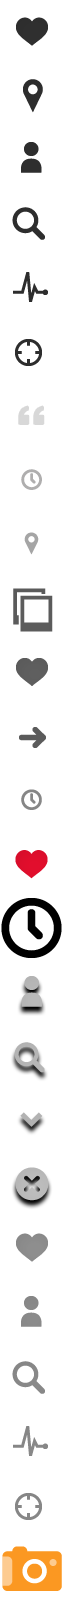
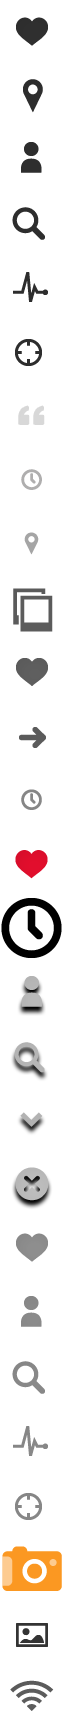
styling for offline element, set timeouts back to original values after testing

Changed region(s): [[0.0, 0.0, 0.9688, 1.0], [0.6875, 0.8125, 0.7188, 0.8438]]

diff --git a/theme/snapr/css/main.css b/theme/snapr/css/main.css
@@ -470,6 +470,42 @@
 .extra-icons.ui-icon-delete {
   background-position: 0 -576px;
 }
+.extra-icons .ui-icon-heart-b,
+.extra-icons.ui-icon-heart-b {
+  background-position: 0 -608px;
+}
+.extra-icons .ui-icon-person-b,
+.extra-icons.ui-icon-person-b {
+  background-position: 0 -640px;
+}
+.extra-icons .ui-icon-search-b,
+.extra-icons.ui-icon-search-b {
+  background-position: 0 -672px;
+}
+.extra-icons .ui-icon-activity-b,
+.extra-icons.ui-icon-activity-b {
+  background-position: 0 -704px;
+}
+.extra-icons .ui-icon-location-b,
+.extra-icons.ui-icon-location-b {
+  background-position: 0 -736px;
+}
+.extra-icons .ui-icon-mapcamera-y,
+.extra-icons.ui-icon-mapcamera {
+  background-position: 0 -768px;
+}
+.extra-icons .ui-icon-photoedit,
+.extra-icons.ui-icon-photoedit {
+  background-position: 0 -800px;
+}
+.extra-icons .ui-icon-delete,
+.extra-icons.ui-icon-delete {
+  background-position: 0 -576px;
+}
+.extra-icons .ui-icon-connection,
+.extra-icons.ui-icon-connection {
+  background-position: 0 -832px;
+}
 .ui-icon.helper-icons,
 .helper-icons .ui-icon {
   background-image: url('../gfx/helper-icons.png');
@@ -3566,6 +3602,11 @@ a.ui-link-inherit {
   height: 0;
   overflow: hidden;
 }
+strong {
+  font-weight: normal;
+  font-size: 16px;
+  font-family: 'MuseoSansRounded700', Helvetica, Arial, sans-serif;
+}
 .small-text {
   font-size: 12px;
   font-family: Helvetica, Arial, sans-serif;
@@ -3633,6 +3674,21 @@ a.ui-link-inherit {
 }
 .ui-content .inset-page-content .ui-listview-inset {
   margin-bottom: 16px;
+}
+.retry-offline {
+  display: block;
+  padding-left: 24px;
+  padding-right: 24px;
+}
+.retry-offline .ui-icon-connection {
+  position: absolute;
+  left: 0;
+  top: 0;
+}
+.retry-offline .ui-icon-forward {
+  position: absolute;
+  right: -1px;
+  top: -1px;
 }
 .helper-content .ui-body {
   position: relative;
@@ -6028,10 +6084,10 @@ div.ps-carousel-item-loading {
   .ui-icon.extra-icons,
   .extra-icons .ui-icon {
     background-image: url('../gfx/retina/extra-icons.png');
-    -moz-background-size: 32px 800px;
-    -o-background-size: 32px 800px;
-    -webkit-background-size: 32px 800px;
-    background-size: 32px 800px;
+    -moz-background-size: 32px 864px;
+    -o-background-size: 32px 864px;
+    -webkit-background-size: 32px 864px;
+    background-size: 32px 864px;
   }
   .ui-icon.helper-icons,
   .helper-icons .ui-icon {

diff --git a/theme/snapr/css/icons.less b/theme/snapr/css/icons.less
@@ -172,6 +172,16 @@
     .ui-icon-search-a, &.ui-icon-search-a{background-position: @ei-offset-x @gfx-extra-icon-sprite-search-a-y;}
     .ui-icon-arrow-d, &.ui-icon-arrow-d{background-position: @ei-offset-x @gfx-extra-icon-sprite-arrow-d-a-y;}
     .ui-icon-delete, &.ui-icon-delete{background-position: @ei-offset-x @gfx-extra-icon-sprite-delete-a-y;}
+    .ui-icon-heart-b, &.ui-icon-heart-b{background-position: @ei-offset-x @gfx-extra-icon-sprite-heart-b-y;}
+    .ui-icon-person-b, &.ui-icon-person-b{background-position: @ei-offset-x  @gfx-extra-icon-sprite-person-b-y;}
+    .ui-icon-search-b, &.ui-icon-search-b{background-position: @ei-offset-x @gfx-extra-icon-sprite-search-b-y;}
+    .ui-icon-activity-b, &.ui-icon-activity-b{background-position: @ei-offset-x @gfx-extra-icon-sprite-activity-b-y;}
+    .ui-icon-location-b, &.ui-icon-location-b{background-position: @ei-offset-x @gfx-extra-icon-sprite-location-b-y;}
+    .ui-icon-mapcamera-y, &.ui-icon-mapcamera{background-position: @ei-offset-x @gfx-extra-icon-sprite-mapcamera-y;}
+    .ui-icon-photoedit, &.ui-icon-photoedit{background-position: @ei-offset-x @gfx-extra-icon-sprite-photoedit-y;}
+    .ui-icon-delete, &.ui-icon-delete{background-position: @ei-offset-x @gfx-extra-icon-sprite-delete-a-y;}
+    .ui-icon-connection, &.ui-icon-connection{background-position: @ei-offset-x @gfx-extra-icon-sprite-connection-y;}
+    
 }
 
 

diff --git a/theme/snapr/css/sprites.less b/theme/snapr/css/sprites.less
@@ -163,7 +163,7 @@
 * Extra Icons '../gfx/extra-icons.png'
 */
 @gfx-extra-icon-sprite-width: 32px;
-@gfx-extra-icon-sprite-height: 800px;
+@gfx-extra-icon-sprite-height: 864px;
 @gfx-extra-icon-sprite-grid: 32px;
 /* Vertical Layout of Icons */
 @gfx-extra-icon-sprite-heart-y:         -0 * @gfx-extra-icon-sprite-grid; 
@@ -191,6 +191,8 @@
 @gfx-extra-icon-sprite-activity-b-y:    -22 * @gfx-extra-icon-sprite-grid;
 @gfx-extra-icon-sprite-location-b-y:    -23 * @gfx-extra-icon-sprite-grid;
 @gfx-extra-icon-sprite-mapcamera-y:     -24 * @gfx-extra-icon-sprite-grid;
+@gfx-extra-icon-sprite-photoedit-y:     -25 * @gfx-extra-icon-sprite-grid;
+@gfx-extra-icon-sprite-connection-y:    -26 * @gfx-extra-icon-sprite-grid;
 
 
 /* Horizontal offsets for theme swatches / hover states */

diff --git a/theme/snapr/css/elements.less b/theme/snapr/css/elements.less
@@ -852,6 +852,11 @@
     overflow: hidden;
 }
 
+strong{
+    font-weight: normal;
+    font-size: @txt-size-username;
+    font-family: @txt-font-special;
+}
 
 .small-text{
     font-size: @txt-size-small;
@@ -930,6 +935,23 @@
     }
 }
 
+.retry-offline{
+    display: block;
+    padding-left: 24px;
+    padding-right: 24px;
+    
+    .ui-icon-connection{
+        position: absolute;
+        left: 0;
+        top: 0; 
+    }
+    
+    .ui-icon-forward{
+        position: absolute;
+        right: -1px;
+        top: -1px;
+    }
+}
 
 .helper-content{
     .ui-body{

diff --git a/index.html b/index.html
@@ -1115,7 +1115,7 @@
     <script id="offline-template" type="text/template">
         <div class="x-offline page-inset-header ui-body-c">
             <div class="ui-content">
-                <a>Offline Mode - Click to retry</a>
+                <a class="retry-offline"><span class="ui-icon ui-icon-connection extra-icons"></span><strong>Offline Mode</strong><span class="small-text"> (click to retry)</span><span class="ui-icon ui-icon-forward"></span></a>
             </div>
         </div>
     </script>
